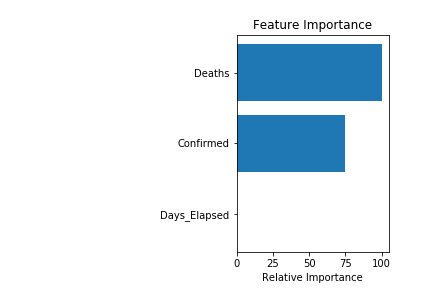
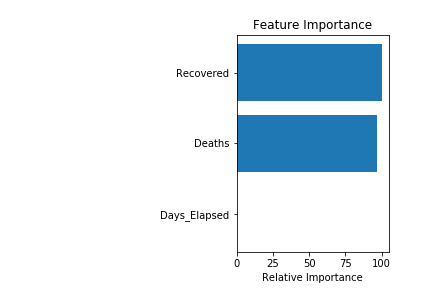
Legends

Changed region(s): [[0.7824, 0.375, 0.8727, 0.625], [0.4213, 0.4688, 0.5417, 0.5312], [0.3912, 0.2188, 0.5417, 0.2812]]

diff --git a/corona_model.py b/corona_model.py
@@ -126,7 +126,6 @@ def main():
     mse = metrics.mean_squared_error(y_val, y_pred_val)
     print("Mean square error: %.4f" % mse)
     
-    plt.figure(figsize=(12,6))
     plt.title("Graident Boosting Model")
     plt.scatter(y_train, y_train)
     plt.plot(y_train, model.predict(X_train), color = 'black')
@@ -134,7 +133,6 @@ def main():
     plt.savefig(path)
     plt.close()
     
-    plt.figure(figsize=(12,6))
     plt.title("Graident Boosting Model")
     plt.scatter(y_train, y_train)
     plt.plot(y_train, model.predict(X_train), color = 'black')
@@ -164,7 +162,7 @@ def main():
     feature_importance = model.feature_importances_
     # make importances relative to max importance
     feature_importance = 100.0 * (feature_importance / feature_importance.max())
-    sorted_idx = np.argsort(feature_importance[0:5])
+    sorted_idx = np.argsort(feature_importance[0:3])
     pos = np.arange(sorted_idx.shape[0]) + .5
     plt.subplot(1, 2, 2)
     plt.barh(pos, feature_importance[sorted_idx], align='center')
